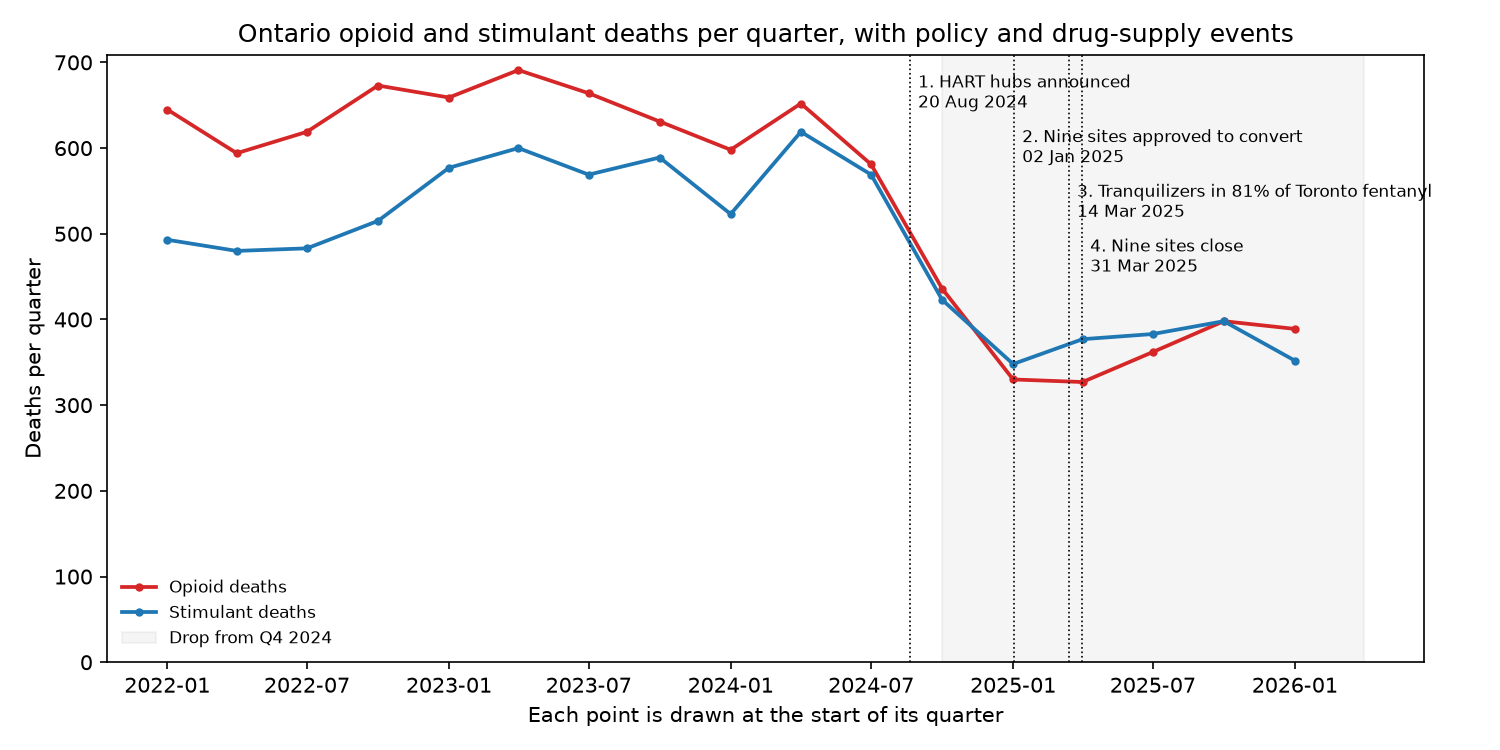
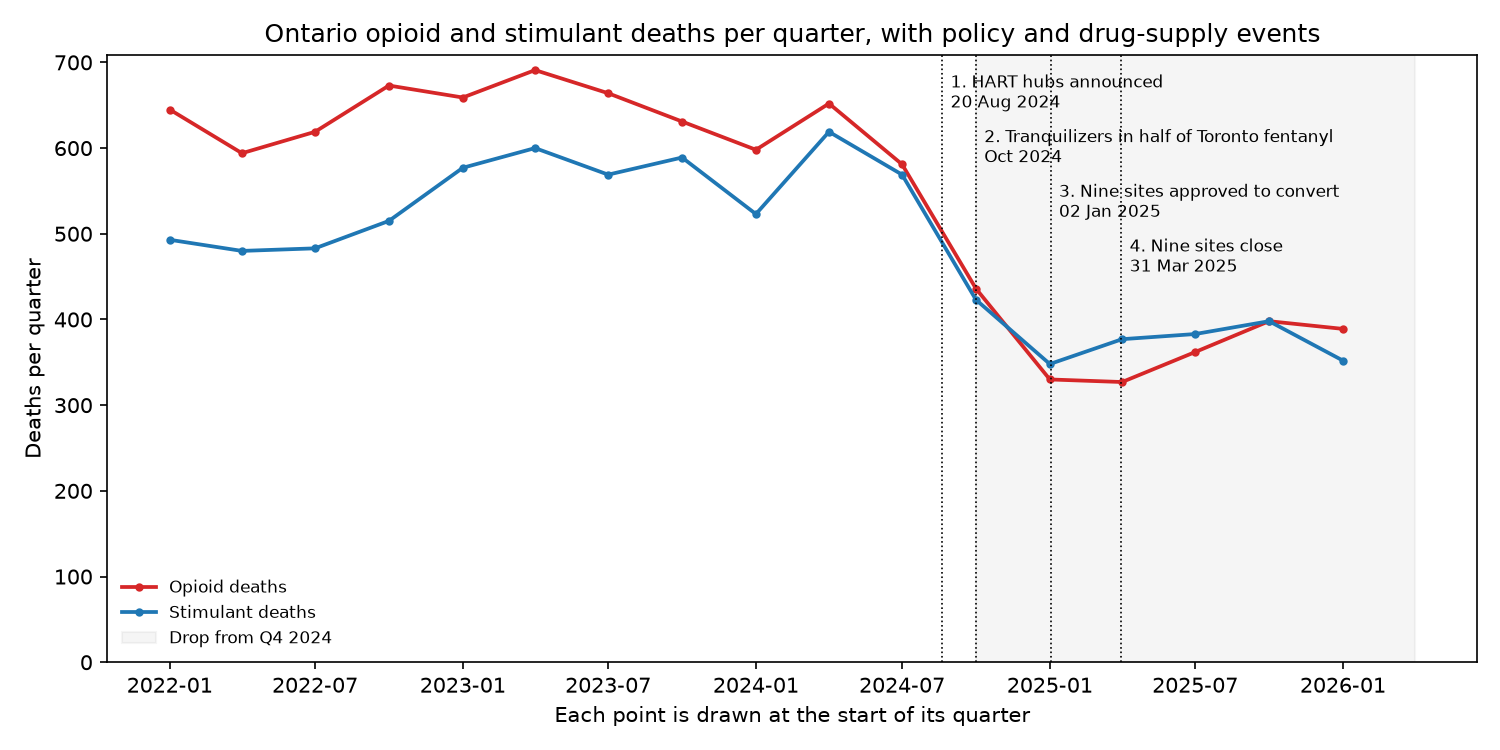
Date the supply event from Toronto Drug Checking Service monthly data
October 2024 was the first month with a veterinary tranquilizer in more
than half of expected-fentanyl samples (120 of 236). Values read from
the service's Tableau Public tooltips on 25 November 2026.

diff --git a/scripts/07_event_timeline.py b/scripts/07_event_timeline.py
@@ -41,7 +41,9 @@ ax.axvspan(DROP.to_timestamp(), last, color="grey", alpha=0.08, label="Drop from
 top = ax.get_ylim()[1]
 for i, row in enumerate(events.itertuples(), start=1):
     ax.axvline(row.date, color="black", lw=0.8, ls=":")
-    ax.annotate(f"{i}. {row.short_label}\n{row.date:%d %b %Y}", (row.date, top * (0.97 - 0.09 * (i - 1))),
+    # day 1 marks a monthly value, so show only the month
+    when = f"{row.date:%b %Y}" if row.date.day == 1 else f"{row.date:%d %b %Y}"
+    ax.annotate(f"{i}. {row.short_label}\n{when}",(row.date, top * (0.97 - 0.09 * (i - 1))),
                 xytext=(4, 0), textcoords="offset points", fontsize=8, va="top")
 
 ax.set_title("Ontario opioid and stimulant deaths per quarter, with policy and drug-supply events")

diff --git a/README.md b/README.md
@@ -33,7 +33,7 @@ The three tools agree on the main result. R's auto.arima picked the same ARIMA(0
 
 Ontario's 2025 drop was larger than Canada's. Ontario's opioid death rate fell from 14.0 per 100,000 in 2024 to 8.7 in 2025 (down 38%), while Canada's fell from 16.2 to 13.7 (down 15%). Ontario's stimulant death rate fell from 13.2 to 9.3, and Canada's from 14.2 to 13.3. From 2019 to 2021 Ontario's death rates were at or slightly above Canada's for both substances. Ontario's hospitalization rates have been below Canada's in every year since 2016. Canada's totals include Ontario, so the gap with the rest of the country is larger than these figures show. The rates are in `results/ontario_vs_canada_rates.csv` and the chart is `images/ontario_vs_canada_rates.png`.
 
-The provincial policy changes do not explain when the drop began. `images/event_timeline.png` marks three dated policy events from Google News (listed with links in `data/events.csv`): Ontario announced HART hubs and a ban on supervised consumption sites near schools on 20 August 2024, approved nine sites to become HART hubs on 2 January 2025, and the nine sites were due to close at the end of March 2025. Opioid deaths had already fallen from 581 in Q3 2024 to 436 in Q4 2024 and 330 in Q1 2025 before any site closed. The decline was also national: opioid deaths fell 15.4% in Ontario in 2024 (2,638 to 2,231) and 17.1% across Canada ([CATIE, 1 August 2025](https://www.catie.ca/prevention-in-focus/reported-drug-toxicity-deaths-dropped-in-parts-of-canada-in-2024-but-whats)). CATIE lists possible causes, none of them proven: lower fentanyl concentration in the unregulated supply, more sedatives such as benzodiazepines and xylazine in it, a shift from injecting to smoking, fewer people using drugs, and the deaths of many people at highest risk in earlier years. A search of Canadian news from June 2024 to June 2025 found no drug-supply change with an exact date before the drop. The chart marks the nearest dated supply report: on 14 March 2025, Toronto's Drug Checking Service said xylazine and medetomidine were in 81% of samples expected to be fentanyl, taken from 22 February to 7 March 2025, the highest share since its testing began in 2020 ([CBC News](https://www.cbc.ca/news/canada/toronto/veterinary-tranquilizers-fentanyl-testing-toronto-1.7484674)). The service first reported medetomidine in December 2023 ([Canadian Affairs, 29 April 2025](https://www.canadianaffairs.news/2025/04/29/dangerous-veterinary-tranquilizers-now-found-in-most-fentanyl-samples/)). The 81% report came after the drop began, so it cannot date the start of the drop. The dated supply evidence does not explain the drop in Q4 2024. The events are annotations only and are not inputs to any model.
+The provincial policy changes do not explain when the drop began. `images/event_timeline.png` marks three dated policy events from Google News and one drug-supply event (listed with links in `data/events.csv`): Ontario announced HART hubs and a ban on supervised consumption sites near schools on 20 August 2024, approved nine sites to become HART hubs on 2 January 2025, and the nine sites were due to close at the end of March 2025. Opioid deaths had already fallen from 581 in Q3 2024 to 436 in Q4 2024 and 330 in Q1 2025 before any site closed. The decline was also national: opioid deaths fell 15.4% in Ontario in 2024 (2,638 to 2,231) and 17.1% across Canada ([CATIE, 1 August 2025](https://www.catie.ca/prevention-in-focus/reported-drug-toxicity-deaths-dropped-in-parts-of-canada-in-2024-but-whats)). CATIE lists possible causes, none of them proven: lower fentanyl concentration in the unregulated supply, more sedatives such as benzodiazepines and xylazine in it, a shift from injecting to smoking, fewer people using drugs, and the deaths of many people at highest risk in earlier years. A search of Canadian news from June 2024 to June 2025 found no drug-supply change with an exact date before the drop, so the monthly values were read from the tooltips of Toronto's Drug Checking Service dashboard ([Tableau Public](https://public.tableau.com/app/profile/karen.mcdonald5803/viz/Newproposedwebsitevizs/DB-Noteworthydrugsinexpectedfentanylsamples), read 25 November 2026; the service does not allow data download). The share of expected-fentanyl samples with a veterinary tranquilizer (xylazine or medetomidine) was 25.0% in Q3 2024 and 42.9% in Q4 2024. October 2024 was the first month above half: 51% (120 of 236), with medetomidine in 33% and xylazine in 22%. The monthly counts are in `data/drug_checking_tranquilizers_monthly.csv`. The chart marks October 2024. The share then rose to 76% in March 2025, in line with the service's report of 81% for 22 February to 7 March 2025 ([CBC News](https://www.cbc.ca/news/canada/toronto/veterinary-tranquilizers-fentanyl-testing-toronto-1.7484674)). The service first found medetomidine in December 2023 (4 of 112 samples). In the same months the main opioid changed: fluorofentanyl fell from 81% of samples in August 2024 to 15% in January 2025, and methylfentanyl-related drugs rose from 28% to 65% in November 2024. A high-potency opioid was in 87% to 99% of samples in every month, and the dashboard does not show drug amounts, so it cannot show a change in potency. These are Toronto samples from people who chose to use the service, and sample counts rose from 136 in September 2024 to 270 in November 2024. The supply change and the drop start in the same quarter, but this does not show that one caused the other. The events are annotations only and are not inputs to any model.
 
 ![Ontario deaths with policy events](images/event_timeline.png)
 
